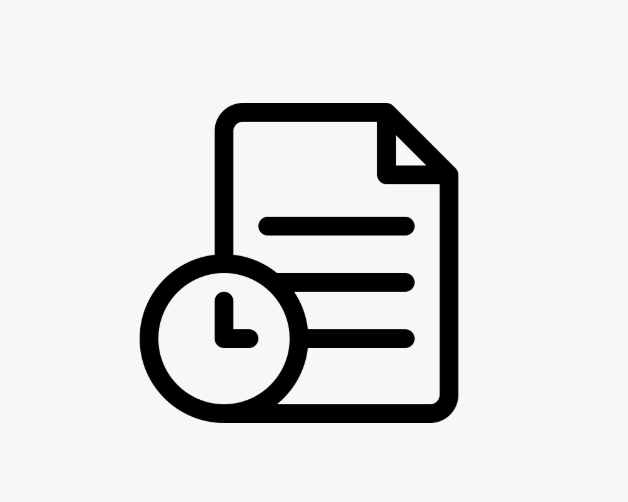
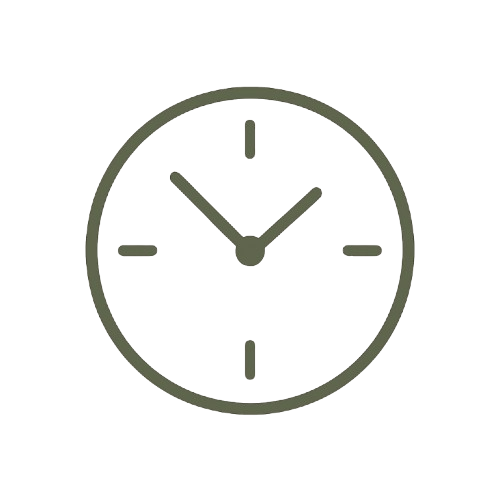
added time stamp

Changed region(s): [[0.15, 0.15, 0.84, 0.87]]

diff --git a/MSSQL/OrderHistoryRepository.cs b/MSSQL/OrderHistoryRepository.cs
@@ -18,7 +18,7 @@ namespace MSSQL
             using (SqlConnection conn = new SqlConnection(_connectionString))
             {
                 conn.Open();
-                string sql = @"select o.Id ,m.[Name], om.Quantity, m.Price, o.SubTotal, o.[Status] 
+                string sql = @"select o.Id ,m.[Name], om.Quantity, m.Price, o.SubTotal, o.[Status], o.OrderTimeStamp
                                                 from [Order] as o 
                                                 inner join Order_MenuItem as om
                                                 on om.OrderId = o.Id
@@ -38,7 +38,8 @@ namespace MSSQL
                             Convert.ToInt32(reader["Quantity"]),
                             Convert.ToDecimal(reader["Price"]),
                             Convert.ToDecimal(reader["SubTotal"]),
-                            Enum.Parse<OrderStatus>(Convert.ToString(reader["Status"])!)
+                            Enum.Parse<OrderStatus>(Convert.ToString(reader["Status"])!),
+                            Convert.ToDateTime(reader["OrderTimeStamp"])
                             ));
                     }
                 }

diff --git a/Models/Entities/OrderHistory.cs b/Models/Entities/OrderHistory.cs
@@ -10,8 +10,10 @@ namespace Models.Entities
         public decimal Price { get; }
         public decimal SubTotal { get; }
         public OrderStatus Status { get; }
+        public DateTime OrderTimeStamp { get; }
 
-        public OrderHistory(int id, string name, int quantity, decimal price, decimal subtotal, OrderStatus status)
+
+        public OrderHistory(int id, string name, int quantity, decimal price, decimal subtotal, OrderStatus status, DateTime orderTimeStamp )
         {
             this.Id = id;   
             this.Name = name;
@@ -19,6 +21,7 @@ namespace Models.Entities
             this.Price = price;
             this.SubTotal = subtotal;
             this.Status = status;
+            this.OrderTimeStamp = orderTimeStamp;
         }
     }
 }

diff --git a/MainOrderly/ViewModels/OrderHistoryViewModel.cs b/MainOrderly/ViewModels/OrderHistoryViewModel.cs
@@ -10,6 +10,9 @@ namespace MainOrderly.WebApp.ViewModels
         public decimal Price { get; set; }
         public decimal SubTotal { get; set; }
         public string Status { get; set; }
+        public DateTime OrderTimeStamp { get; set; }
+
+
 
         public static OrderHistoryViewModel ConvertToViewModel(OrderHistory history)
         {
@@ -20,7 +23,8 @@ namespace MainOrderly.WebApp.ViewModels
                 Quantity = history.Quantity,
                 Price = history.Price,
                 SubTotal = history.SubTotal,
-                Status = history.Status.ToString()
+                Status = history.Status.ToString(),
+                OrderTimeStamp = history.OrderTimeStamp
             };
 
 

diff --git a/MainOrderly/Controllers/HistoryController.cs b/MainOrderly/Controllers/HistoryController.cs
@@ -16,6 +16,7 @@ namespace MainOrderly.WebApp.Controllers
         [HttpGet]
         public IActionResult History()
         {
+            ViewData["Page"] = "History";
             List<OrderHistory> orders = _historyService.GetHistory();
             List<OrderHistoryViewModel> historyViewModel = orders.Select(OrderHistoryViewModel.ConvertToViewModel).ToList();
             return View(historyViewModel);

diff --git a/MainOrderly/Controllers/HomeController.cs b/MainOrderly/Controllers/HomeController.cs
@@ -42,6 +42,7 @@ namespace MainOrderly.WebApp.Controllers
         [HttpGet]
         public IActionResult Index(Category? category = null, string searchTerm = "", int tableId = 0, int restaurantId = 0)
         {
+            ViewData["Page"] = "Index";
             if (tableId > 0)
             {
                 HttpContext.Session.SetInt32("TableId", tableId);

diff --git a/MainOrderly/Controllers/CartController.cs b/MainOrderly/Controllers/CartController.cs
@@ -74,6 +74,7 @@ namespace MainOrderly.WebApp.Controllers
         [HttpGet]
         public IActionResult PaymentConfirmationPage(int orderId)
         {
+            ViewData["Page"] = "Payment";
             OrderViewModel orderModel = new OrderViewModel()
             {
                 Id = orderId
